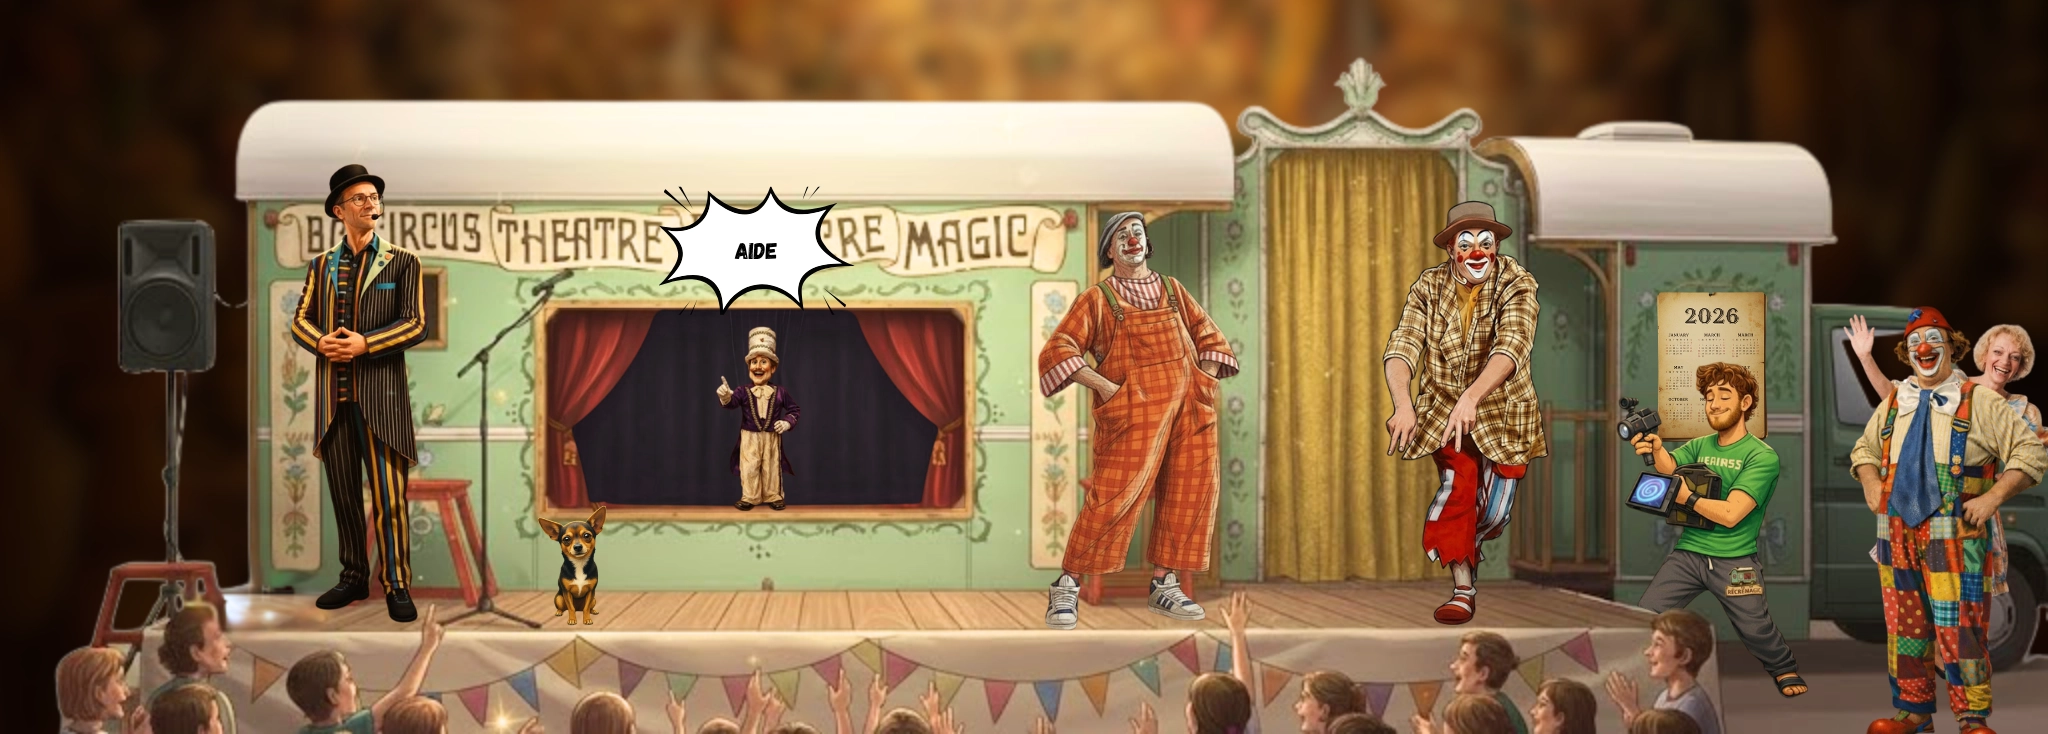
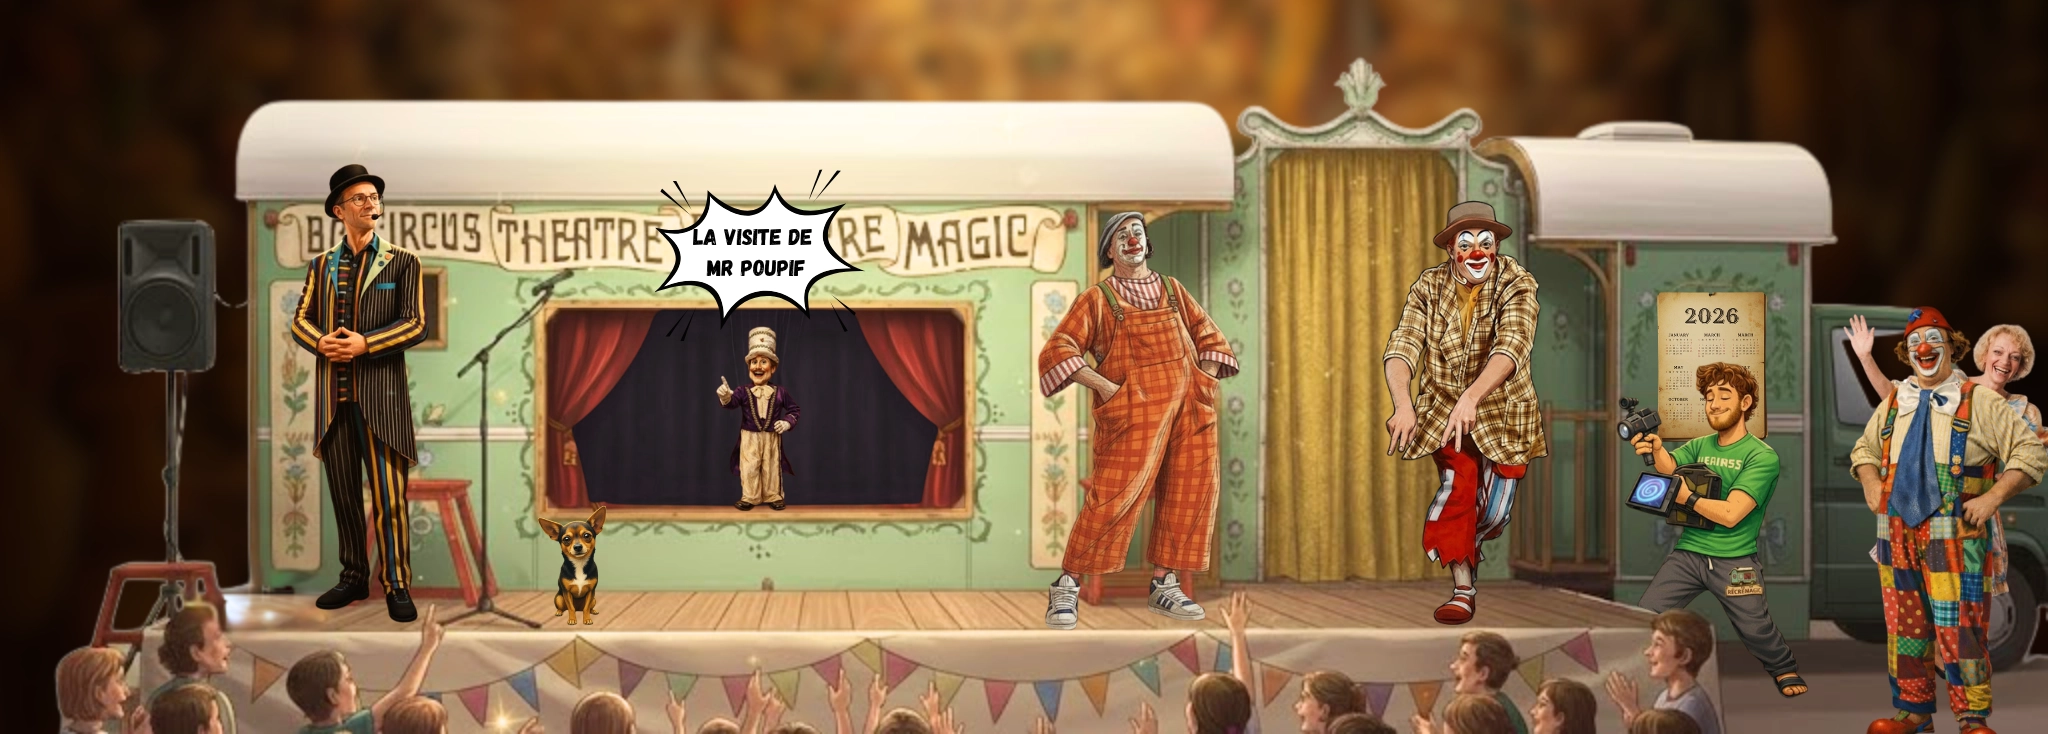
Replace Poupif caravan speech bubble from supplied image

Changed region(s): [[0.3125, 0.2398, 0.4375, 0.4196], [0.3125, 0.2398, 0.3438, 0.2698]]

diff --git a/familles.html b/familles.html
@@ -455,7 +455,7 @@
                 </a>
 
                 <a href="poupif.html"
-                   onmouseover="changeImage('caravane2-aide.webp')"
+                   onmouseover="changeImage('caravane2-aide.webp?v=20261114-poupif')"
                    onmouseout="changeImage('caravane2-base.webp')">
                     <rect x="535" y="275" width="410" height="200" class="hotspot" />
                 </a>
@@ -579,7 +579,7 @@
         updateNavbarAvatar();
         
         const imagesToPreload = [
-            'caravane2-base.webp', 'caravane2-videos.webp', 'caravane2-aide.webp',
+            'caravane2-base.webp', 'caravane2-videos.webp', 'caravane2-aide.webp?v=20261114-poupif',
             'caravane2-contes.webp', 'caravane2-boutique.webp', 'caravane2-calendrier.webp',
             'caravane2-series-musique.webp', 'caravane2-qui-sommes-nous.webp', 'caravane2-mini-series.webp'
         ];
@@ -595,7 +595,7 @@
             const zones = [
                 { name: 'toto', start: 12.5, end: 21.5, image: 'caravane2-videos.webp', link: 'https://www.youtube.com/@recremagic', external: true },
                 { name: 'cookie', start: 23, end: 29, image: 'caravane2-mini-series.webp', link: 'nos-stars.html', external: false },
-                { name: 'rideau', start: 26.75, end: 47.25, image: 'caravane2-aide.webp', link: 'poupif.html', external: false },
+                { name: 'rideau', start: 26.75, end: 47.25, image: 'caravane2-aide.webp?v=20261114-poupif', link: 'poupif.html', external: false },
                 { name: 'flo', start: 50, end: 60, image: 'caravane2-contes.webp', link: 'nos-stars.html', external: false },
                 { name: 'rideau-or', start: 62, end: 70, image: 'caravane2-boutique.webp', link: 'boutique.html', external: false },
                 { name: 'calendrier', start: 67, end: 77, image: 'caravane2-calendrier.webp', link: 'calendrier.html', external: false },
